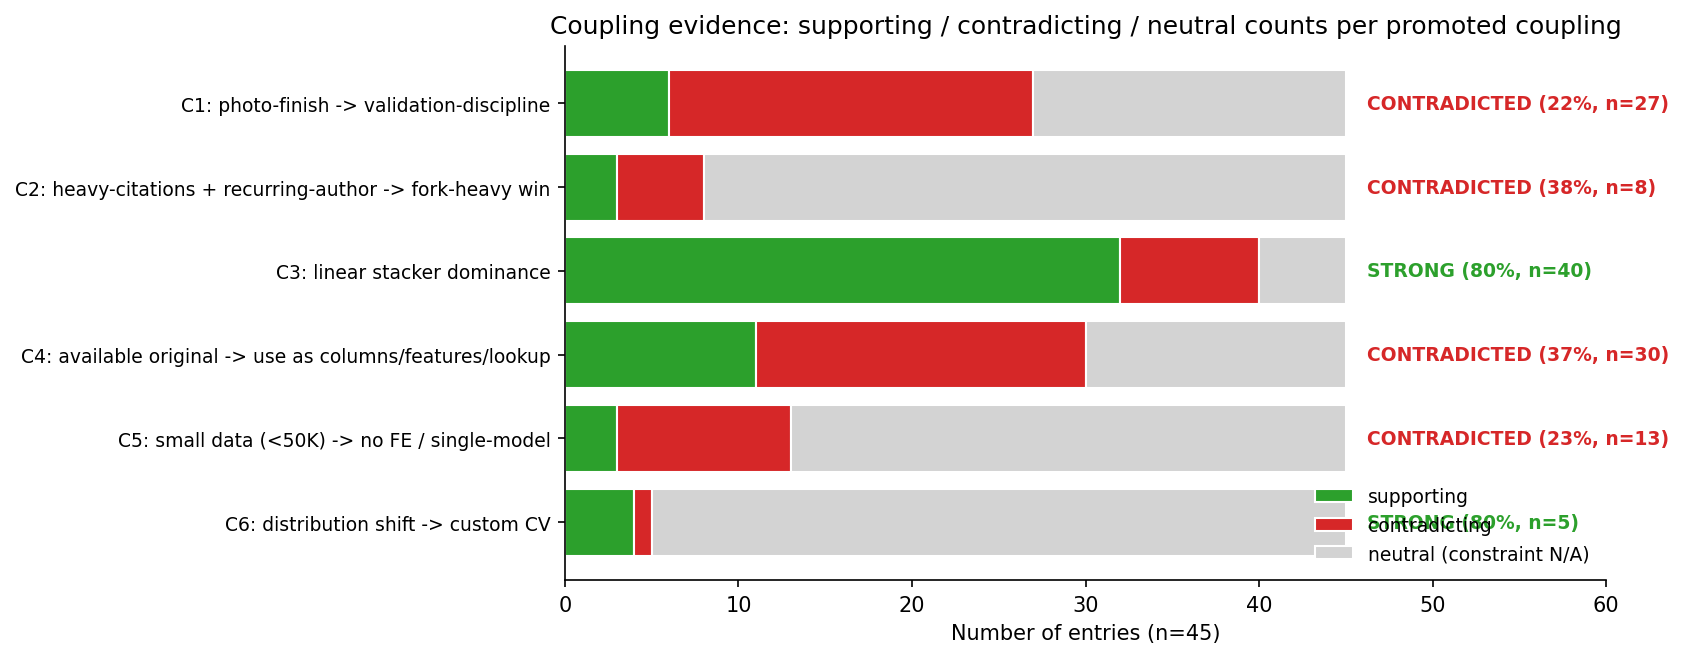
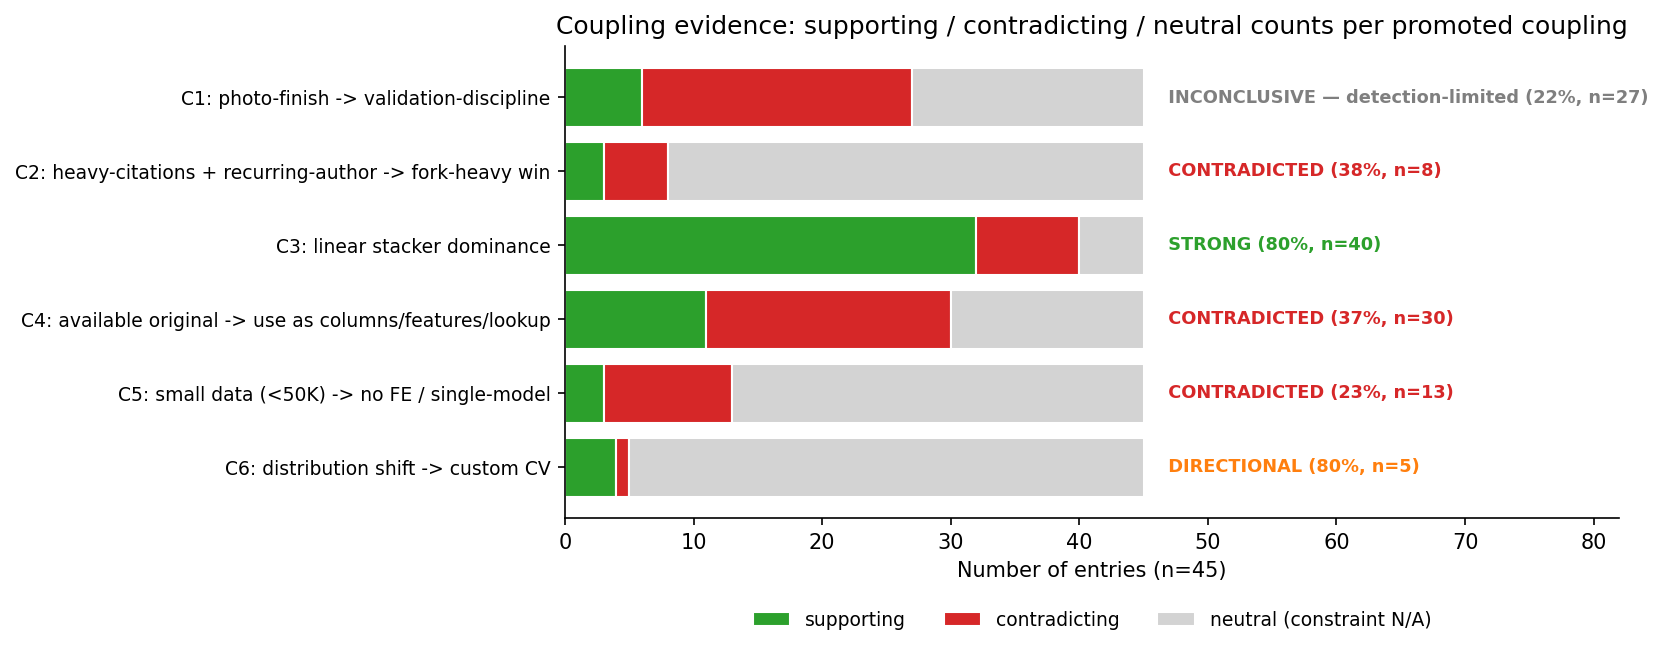
figures: fix fig4 annotation, deterministic centrality, relabel coupling fig
- fig4 (n_fe distribution): heavyweight-tail annotation said cdeotte s5e2=19;
  the max-n_fe=19 entry is s6e3 (s5e2 is 16). Corrected source + regenerated.
- phase5_41 (author centrality): handle list was built from a bare set, so
  equal-total authors reordered across runs (hash randomization). Added
  sorted(set(...)) + (total, handle) tiebreak; now byte-reproducible.
- phase5_51 (coupling evidence): verdict labels now mirror Section 4.3's
  reframe -- C1 Contradicted -> Inconclusive (detection-limited), C6 Strong ->
  Directional (n=5); legend moved below to clear the right-hand labels.

All report figures now regenerate byte-identically from the committed workbook.

Changed region(s): [[0.0, 0.092, 1.0, 0.9816], [0.3067, 0.0307, 0.9814, 0.0613], [0.092, 0.1227, 0.3373, 0.184]]

diff --git a/analysis/figures/report/make_fig3_4_winners.py b/analysis/figures/report/make_fig3_4_winners.py
@@ -54,7 +54,7 @@ ax.set_title(f'Most winners use few of their own FE techniques (median {med}, me
 z = sum(1 for v in nfe if v == 0)
 ax.annotate(f'{z} winners: forked/\nminimal-only (n_fe=0)', xy=(0, nfe.count(0)), xytext=(1.5, max(nfe.count(0), 1) + 4),
             fontsize=8.5, color='#444', arrowprops=dict(arrowstyle='->', color='#888', lw=0.8))
-ax.annotate('heavyweight tail\n(cdeotte s5e2 = 19)', xy=(mx, 1), xytext=(mx - 8, 5), fontsize=8.5, color='#444',
+ax.annotate('heavyweight tail\n(cdeotte s6e3 = 19)', xy=(mx, 1), xytext=(mx - 8, 5), fontsize=8.5, color='#444',
             arrowprops=dict(arrowstyle='->', color='#888', lw=0.8))
 ax.legend(frameon=False)
 for s in ('top', 'right'): ax.spines[s].set_visible(False)